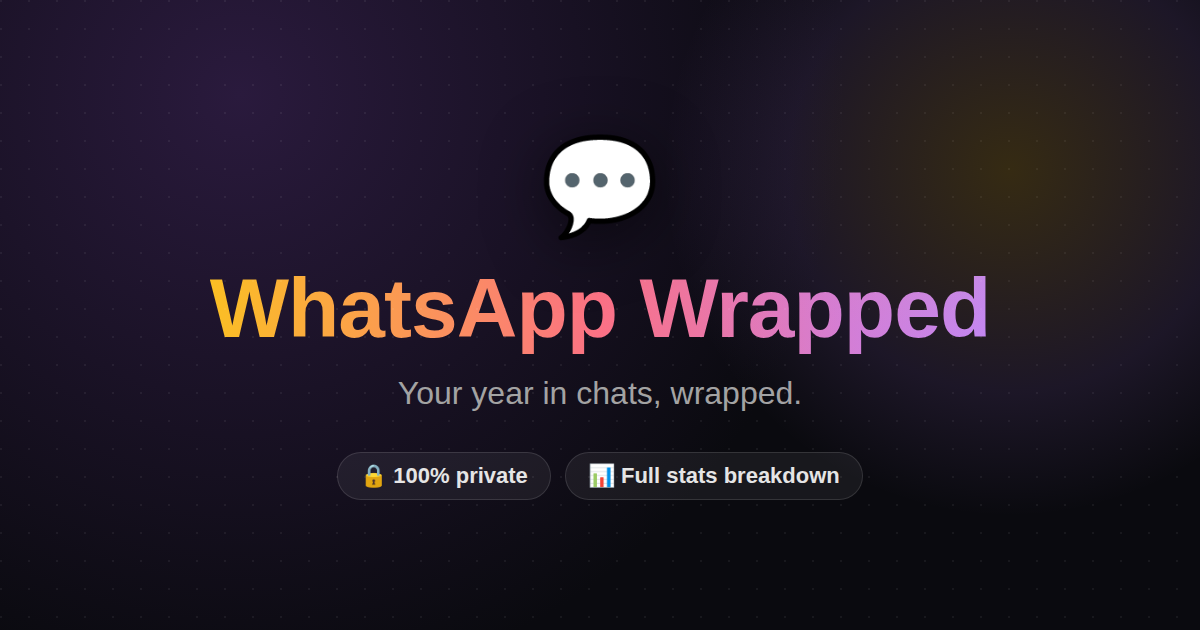
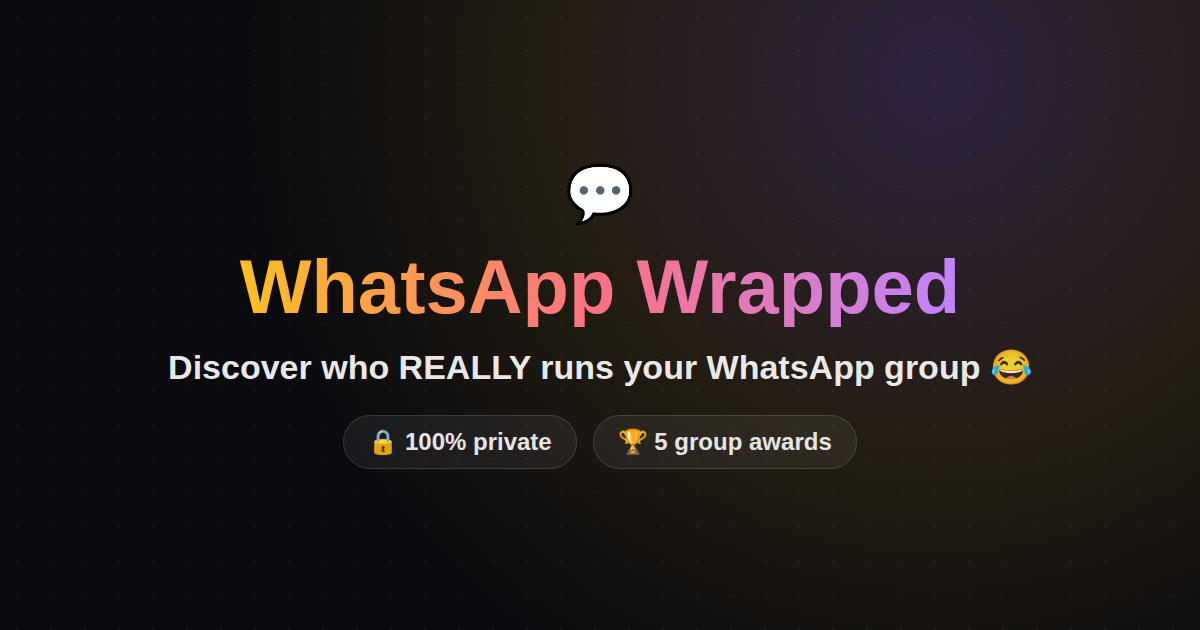
Update social link-preview (OG/Twitter) copy and image to match the new hook
Found this doing a pre-launch pass: index.html's <title>, meta description,
and og:*/twitter:* tags — plus the actual og-image.png shown in WhatsApp/
Twitter/Facebook link previews — were all still on the old "Your year in
chats, wrapped" framing, even after the in-app hero copy was rewritten to
"Discover who REALLY runs your WhatsApp group". Since this is exactly what
shows up when someone shares the bare app link (not a ?stats= result link,
which already carries its own preview via the OG tags too), it was the
first thing a new visitor would see — and it contradicted the page they'd
land on.

- index.html: title/description/og:title/og:description/twitter:title/
  twitter:description updated to the new hook and description.
- public/og-image.png: regenerated to match — same brand gradient/dot
  background as before, new tagline, and swapped one pill ("Full stats
  breakdown" -> "🏆 5 group awards") to tie into the new 5-badge share
  image instead of describing a generic feature.
- vite.config.ts: PWA manifest description updated to match, for the
  "Add to Home Screen" install prompt.

Build, lint, and the full vitest suite (23 tests) all pass.

diff --git a/index.html b/index.html
@@ -14,19 +14,19 @@
     <meta name="apple-mobile-web-app-status-bar-style" content="black-translucent" />
     <meta name="apple-mobile-web-app-title" content="Wrapped" />
 
-    <title>WhatsApp Wrapped — Your year in chats, wrapped</title>
+    <title>WhatsApp Wrapped — Discover who REALLY runs your group 😂</title>
     <meta
       name="description"
-      content="Upload a WhatsApp chat export and get a fun, private stats breakdown — busiest days, top emojis, who talks most, and more. Everything happens on your device."
+      content="Upload a WhatsApp chat export and find out who talks the most, who's the funniest, and who never replies — a fun, private stats breakdown. Everything happens on your device."
     />
 
     <!-- Open Graph / WhatsApp / Facebook link previews -->
     <meta property="og:type" content="website" />
     <meta property="og:site_name" content="WhatsApp Wrapped" />
-    <meta property="og:title" content="WhatsApp Wrapped — Your year in chats, wrapped" />
+    <meta property="og:title" content="WhatsApp Wrapped — Discover who REALLY runs your group 😂" />
     <meta
       property="og:description"
-      content="Upload a WhatsApp chat export and get a fun, private stats breakdown — busiest days, top emojis, who talks most, and more."
+      content="Upload a WhatsApp chat export and find out who talks the most, who's the funniest, and who never replies — a fun, private stats breakdown."
     />
     <meta property="og:image" content="https://whatsapp-wrapped-ruddy.vercel.app/og-image.png" />
     <meta property="og:image:width" content="1200" />
@@ -35,10 +35,10 @@
 
     <!-- Twitter Card -->
     <meta name="twitter:card" content="summary_large_image" />
-    <meta name="twitter:title" content="WhatsApp Wrapped — Your year in chats, wrapped" />
+    <meta name="twitter:title" content="WhatsApp Wrapped — Discover who REALLY runs your group 😂" />
     <meta
       name="twitter:description"
-      content="Upload a WhatsApp chat export and get a fun, private stats breakdown — busiest days, top emojis, who talks most, and more."
+      content="Upload a WhatsApp chat export and find out who talks the most, who's the funniest, and who never replies — a fun, private stats breakdown."
     />
     <meta name="twitter:image" content="https://whatsapp-wrapped-ruddy.vercel.app/og-image.png" />
   </head>

diff --git a/vite.config.ts b/vite.config.ts
@@ -34,7 +34,7 @@ export default defineConfig({
       manifest: {
         name: 'WhatsApp Wrapped',
         short_name: 'Wrapped',
-        description: 'Your year in chats, wrapped — a fun, private stats breakdown of any WhatsApp chat.',
+        description: 'Discover who REALLY runs your WhatsApp group — a fun, private stats breakdown of any chat.',
         start_url: '/',
         display: 'standalone',
         background_color: '#0a0a0f',
